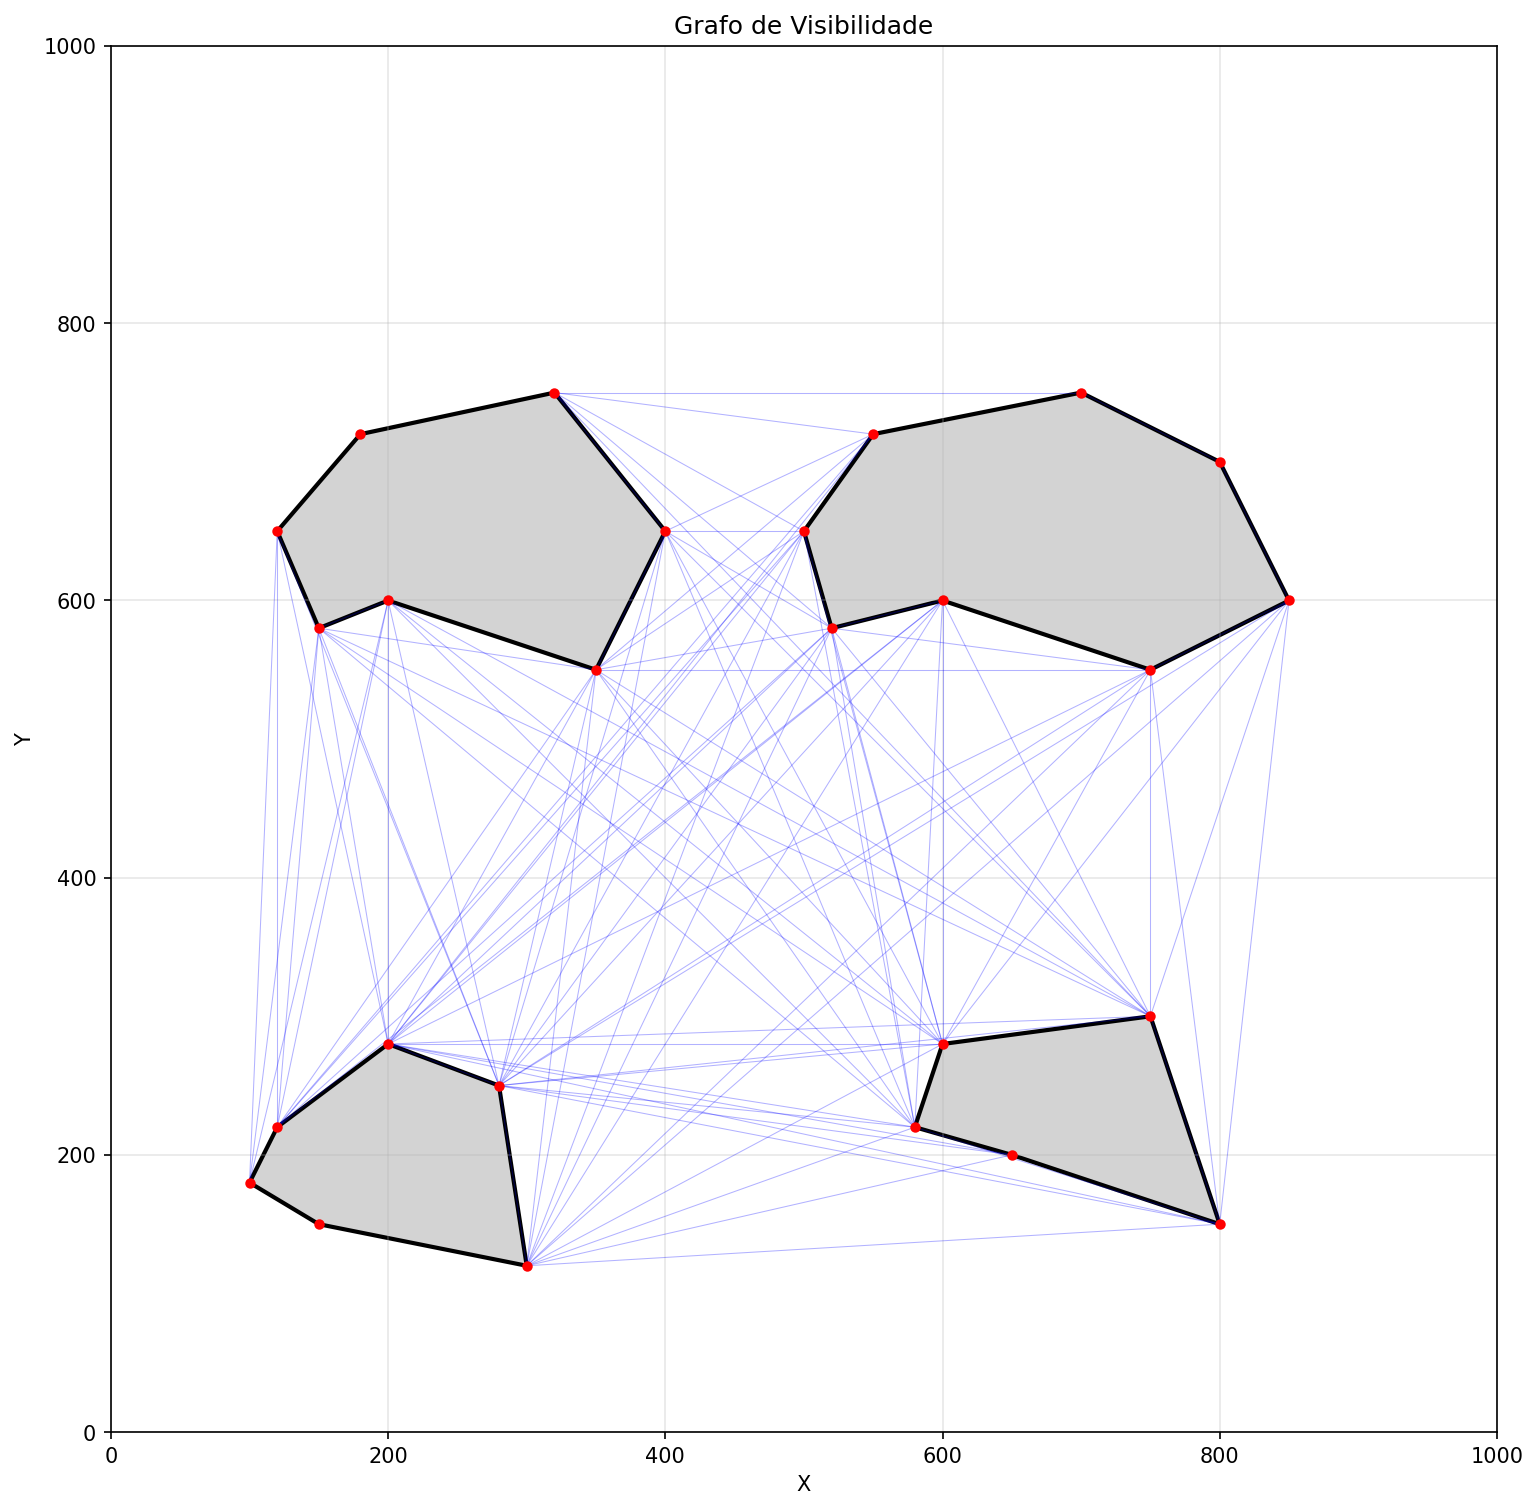
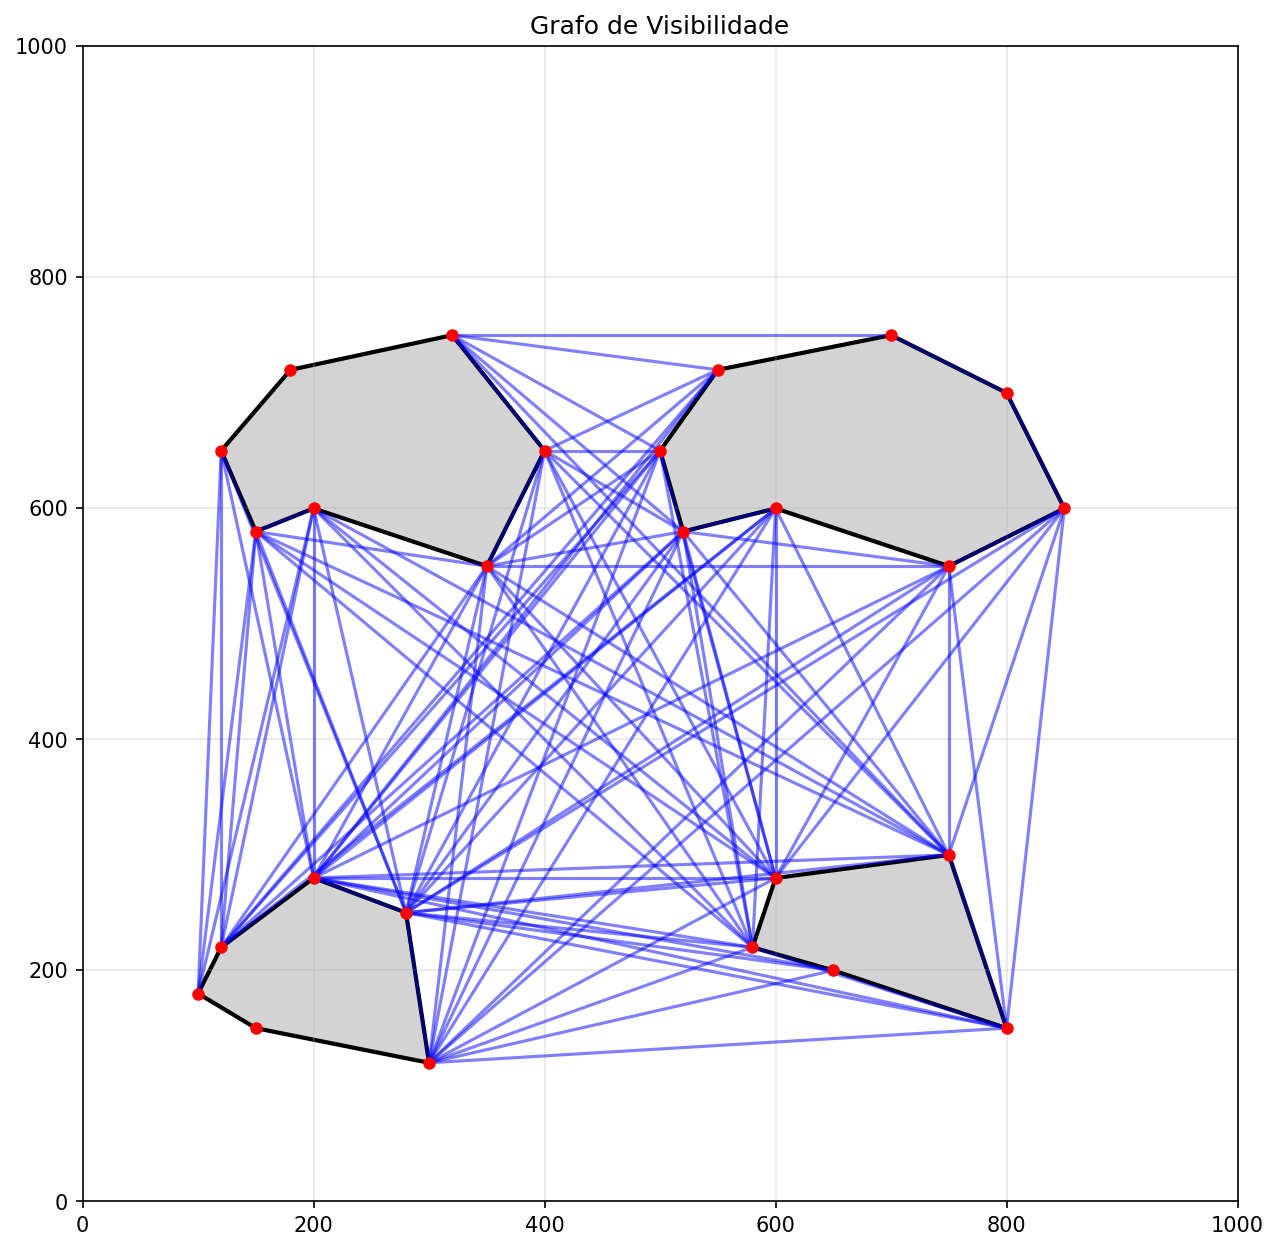
kruskal

diff --git a/leituraMapa/leitura.py b/leituraMapa/leitura.py
@@ -3,48 +3,39 @@ from matplotlib.patches import Polygon
 import math
 
 def read_map(file):
-    """Lê o arquivo de mapa e retorna lista de obstáculos"""
     obstacles = []
     with open(file, 'r') as f:
         lines = f.readlines()
     
     i = 0
     while i < len(lines):
-        linha = lines[i].strip()
-        if linha == 'OBSTACLE':
+        if lines[i].strip() == 'OBSTACLE':
             i += 1
             num_vertices = int(lines[i].strip())
             i += 1
-            vertices = []
-            for j in range(num_vertices):
-                x, y = map(float, lines[i].split(','))
-                vertices.append((x, y))
-                i += 1
+            vertices = [(float(lines[i+j].split(',')[0]), float(lines[i+j].split(',')[1])) 
+                       for j in range(num_vertices)]
             obstacles.append(vertices)
+            i += num_vertices
         else:
             i += 1
     
     return obstacles
 
 def ccw(A, B, C):
-    """Retorna True se os pontos A, B, C estão em sentido anti-horário"""
     return (C[1] - A[1]) * (B[0] - A[0]) > (B[1] - A[1]) * (C[0] - A[0])
 
 def segments_intersect(A, B, C, D):
-    """Verifica se o segmento AB intersecta o segmento CD"""
     return ccw(A, C, D) != ccw(B, C, D) and ccw(A, B, C) != ccw(A, B, D)
 
 def point_in_polygon(point, polygon):
-    """Verifica se um ponto está dentro de um polígono usando ray casting"""
     x, y = point
-    n = len(polygon)
     inside = False
+    j = len(polygon) - 1
     
-    j = n - 1
-    for i in range(n):
+    for i in range(len(polygon)):
         xi, yi = polygon[i]
         xj, yj = polygon[j]
-        
         if ((yi > y) != (yj > y)) and (x < (xj - xi) * (y - yi) / (yj - yi) + xi):
             inside = not inside
         j = i
@@ -52,110 +43,114 @@ def point_in_polygon(point, polygon):
     return inside
 
 def is_visible(p1, p2, obstacles):
-    """Verifica se existe linha de visão entre p1 e p2"""
-    # Verifica se o segmento intersecta alguma aresta dos obstáculos
+    # Verifica interseção com arestas
     for obstacle in obstacles:
-        n = len(obstacle)
-        for i in range(n):
+        for i in range(len(obstacle)):
             edge_start = obstacle[i]
-            edge_end = obstacle[(i + 1) % n]
+            edge_end = obstacle[(i + 1) % len(obstacle)]
             
-            # Ignora se p1 ou p2 são vértices da aresta
-            if (p1 == edge_start or p1 == edge_end or 
-                p2 == edge_start or p2 == edge_end):
+            if (p1 in [edge_start, edge_end] or p2 in [edge_start, edge_end]):
                 continue
             
             if segments_intersect(p1, p2, edge_start, edge_end):
                 return False
     
-    # Verifica se o ponto médio está dentro de algum obstáculo
-    mid_point = ((p1[0] + p2[0]) / 2, (p1[1] + p2[1]) / 2)
-    for obstacle in obstacles:
-        if point_in_polygon(mid_point, obstacle):
-            return False
-    
-    return True
+    mid = ((p1[0] + p2[0]) / 2, (p1[1] + p2[1]) / 2)
+    return not any(point_in_polygon(mid, obs) for obs in obstacles)
 
-def euclidean_distance(p1, p2):
-    """Calcula a distância euclidiana entre dois pontos"""
+def distance(p1, p2):
     return math.sqrt((p2[0] - p1[0])**2 + (p2[1] - p1[1])**2)
 
 def create_visibility_graph(map_file):
-
     obstacles = read_map(map_file)
+    vertices = list(set(v for obs in obstacles for v in obs))
     
-    # Extrai todos os vértices dos obstáculos
-    vertices = []
-    for obstacle in obstacles:
-        vertices.extend(obstacle)
-    
-    # Remove duplicatas
-    vertices = list(set(vertices))
-    
-    print(f"Total de vértices: {len(vertices)}")
-    
-    # Cria o grafo
     graph = {v: [] for v in vertices}
     
-    # Para cada par de vértices, verifica visibilidade
-    total_edges = 0
     for i, v1 in enumerate(vertices):
-        for j, v2 in enumerate(vertices):
-            if i >= j:  # Evita duplicatas e auto-loops
-                continue
-            
+        for v2 in vertices[i+1:]:
             if is_visible(v1, v2, obstacles):
-                distance = euclidean_distance(v1, v2)
-                graph[v1].append((v2, distance))
-                graph[v2].append((v1, distance))
-                total_edges += 1
-    
-    print(f"Total de arestas: {total_edges}")
+                dist = distance(v1, v2)
+                graph[v1].append((v2, dist))
+                graph[v2].append((v1, dist))
     
     return graph, vertices
 
-def visualize_visibility_graph(map_file, graph, vertices, output_file='visibility_graph.png'):
-    """Visualiza o grafo de visibilidade sobre o mapa"""
+def kruskal_mst(graph, vertices):
+
+    edges = sorted(set((distance(v1, v2), tuple(sorted([v1, v2]))) 
+                      for v1 in graph for v2, _ in graph[v1]))
+    edges = [(w, e[0], e[1]) for w, e in edges]
+   
+    parent = {v: v for v in vertices}
+    
+    def find(v):
+        if parent[v] != v:
+            parent[v] = find(parent[v])
+        return parent[v]
+    
+    def union(v1, v2):
+        r1, r2 = find(v1), find(v2)
+        if r1 == r2:
+            return False
+        parent[r2] = r1
+        return True
+    
+    #MST
+    mst = {v: [] for v in vertices}
+    total = 0
+    
+    for weight, v1, v2 in edges:
+        if union(v1, v2):
+            mst[v1].append((v2, weight))
+            mst[v2].append((v1, weight))
+            total += weight
+            if len([v for v in mst if mst[v]]) == len(vertices):
+                break
+    
+    return mst, total
+
+def plot_graph(map_file, graph, vertices, edges_to_draw, output, title, color='b'):
     obstacles = read_map(map_file)
     
-    fig, ax = plt.subplots(figsize=(12, 12))
+    fig, ax = plt.subplots(figsize=(10, 10))
     ax.set_xlim(0, 1000)
     ax.set_ylim(0, 1000)
     ax.set_aspect('equal')
     ax.grid(True, alpha=0.3)
     
-    # Desenha obstáculos
+    # Obstáculos
     for obs in obstacles:
-        polygon = Polygon(obs, closed=True, 
-                          facecolor='lightgray', 
-                          edgecolor='black', 
-                          linewidth=2)
-        ax.add_patch(polygon)
+        ax.add_patch(Polygon(obs, closed=True, facecolor='lightgray', 
+                            edgecolor='black', linewidth=2))
     
-    # Desenha arestas do grafo de visibilidade
-    drawn_edges = set()
-    for v1 in graph:
-        for v2, weight in graph[v1]:
+    # Arestas
+    drawn = set()
+    for v1 in edges_to_draw:
+        for v2, _ in edges_to_draw[v1]:
             edge = tuple(sorted([v1, v2]))
-            if edge not in drawn_edges:
+            if edge not in drawn:
                 ax.plot([v1[0], v2[0]], [v1[1], v2[1]], 
-                       'b-', alpha=0.3, linewidth=0.5)
-                drawn_edges.add(edge)
+                       color=color, alpha=0.5, linewidth=1.5)
+                drawn.add(edge)
     
-    # Desenha vértices
+    # Vértices
     for v in vertices:
-        ax.plot(v[0], v[1], 'ro', markersize=4)
+        ax.plot(v[0], v[1], 'ro', markersize=5)
     
-    ax.set_xlabel('X')
-    ax.set_ylabel('Y')
-    ax.set_title('Grafo de Visibilidade')
-    
-    plt.savefig(output_file, dpi=150, bbox_inches='tight')
+    ax.set_title(title)
+    plt.savefig(output, dpi=150, bbox_inches='tight')
     plt.close()
-    print(f"Grafo salvo em: {output_file}")
-
+    print(f"Salvo: {output}")
 
 if __name__ == "__main__":
-    graph, vertices = create_visibility_graph('mapa/map.txt')
-    visualize_visibility_graph('mapa/map.txt', graph, vertices)
+    MAP_FILE = 'mapa/map.txt'
+    
+    graph, vertices = create_visibility_graph(MAP_FILE)
+    plot_graph(MAP_FILE, graph, vertices, graph, 'visibility_graph.png', 
+               'Grafo de Visibilidade', 'b')
+    
+    mst, total_weight = kruskal_mst(graph, vertices)
+    plot_graph(MAP_FILE, graph, vertices, mst, 'mst_kruskal.png', 
+               'Árvore Geradora Mínima (Kruskal)', 'g')
     

diff --git a/mapa/create_map.py b/mapa/create_map.py
@@ -51,4 +51,4 @@ def create_map_image(file_txt, file_png):
     plt.close()
     print(f"Image save in: {file_png}")
 
-create_map_image('map.txt', 'map.png')
+create_map_image('mapa/map.txt', 'map.png')
